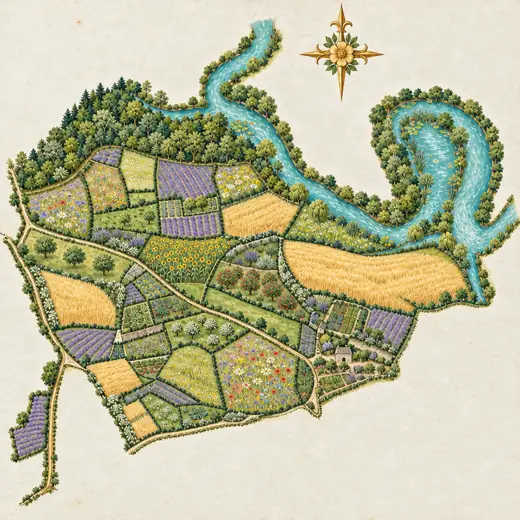
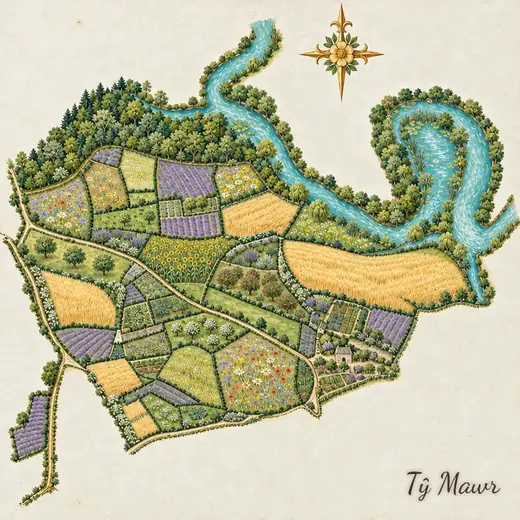
nft-art: Wayback Garden series NFA-0013 to NFA-0050, all signed Tŷ Mawr; gallery shows unpriced pieces
38 flowered-gouache pieces grown from Wayback Vault farm photographs and plans. NFA-0001 and NFA-0011 web images now carry the same signature. No prices or products added.

— Sion's Tab agent

diff --git a/public/garden.js b/public/garden.js
@@ -6,8 +6,9 @@
   function fill(s, o) { return String(s || '').replace(/\{(\w+)\}/g, function (_, k) { return o[k] != null ? o[k] : ''; }); }
   function words() { document.querySelectorAll('[data-t]').forEach(function (el) { el.textContent = T[el.getAttribute('data-t')] || ''; }); if (T.page_title) document.title = T.page_title; }
   function edition(a) { return a.edition === 1 ? T.one_of_one : fill(T.limited, { n: a.edition }); }
+  function sub(a) { return a.price ? esc(a.price) + ' · ' + esc(edition(a)) : esc(a.id); }
   function card(a, i) {
-    return '<a class="gg-c" style="animation-delay:' + (i * 70) + 'ms" href="#/' + esc(a.id) + '"><img loading="lazy" src="' + esc(a.thumb) + '" alt="' + esc(a.alt) + '"><span class="gg-ct"><b>' + esc(a.title) + '</b><small>' + esc(a.price) + ' · ' + esc(edition(a)) + '</small></span></a>';
+    return '<a class="gg-c" style="animation-delay:' + (Math.min(i, 12) * 70) + 'ms" href="#/' + esc(a.id) + '"><img loading="lazy" src="' + esc(a.thumb) + '" alt="' + esc(a.alt) + '"><span class="gg-ct"><b>' + esc(a.title) + '</b><small>' + sub(a) + '</small></span></a>';
   }
   function grid() { $('gg-grid').innerHTML = A.map(card).join(''); }
   function detail(id) {
@@ -17,12 +18,14 @@
     d.innerHTML = '<a class="gg-back" href="#/">← ' + esc(T.back) + '</a>' +
       '<figure><img src="' + esc(a.image) + '" alt="' + esc(a.alt) + '"></figure>' +
       '<h2>' + esc(a.title) + '</h2><p class="gg-cap">' + esc(a.caption) + '</p>' +
-      '<dl class="gg-meta"><dt>' + esc(T.catalogue_label) + '</dt><dd>' + esc(a.id) + '</dd><dt>' + esc(T.edition_label) + '</dt><dd>' + esc(edition(a)) + '</dd>' +
-      '<dt>' + esc(T.medium_label) + '</dt><dd>' + esc(T.medium) + '</dd><dt>' + esc(T.source_label) + '</dt><dd>' + esc(a.source_id) + '</dd></dl>' +
-      '<div class="gg-src"><img loading="lazy" src="' + esc(a.src) + '" alt=""><span>' + esc(T.grown_from) + ' ' + esc(a.source_title) + '</span></div>' +
-      '<div class="gg-buy"><span class="gg-price">' + esc(a.price) + '</span>' +
+      '<dl class="gg-meta"><dt>' + esc(T.catalogue_label) + '</dt><dd>' + esc(a.id) + '</dd>' +
+      (a.edition ? '<dt>' + esc(T.edition_label) + '</dt><dd>' + esc(edition(a)) + '</dd>' : '') +
+      '<dt>' + esc(T.medium_label) + '</dt><dd>' + esc(T.medium) + '</dd>' +
+      (a.source_id ? '<dt>' + esc(T.source_label) + '</dt><dd>' + esc(a.source_id) + '</dd>' : '') + '</dl>' +
+      (a.src ? '<div class="gg-src"><img loading="lazy" src="' + esc(a.src) + '" alt=""><span>' + esc(T.grown_from) + ' ' + esc(a.source_title) + '</span></div>' : '') +
+      (a.price ? '<div class="gg-buy"><span class="gg-price">' + esc(a.price) + '</span>' +
       (a.buy ? '<a class="gg-btn" rel="nofollow" href="/wayback/go/?u=' + encodeURIComponent(a.buy) + '">' + esc(T.buy) + '</a>' : '<a class="gg-btn" href="/shop/">' + esc(T.shop) + '</a>') +
-      '<p class="gg-inc">' + esc(T.includes) + '</p></div>' +
+      '<p class="gg-inc">' + esc(T.includes) + '</p></div>' : '') +
       '<nav class="gg-nav"><a href="#/' + esc(prev.id) + '">← ' + esc(prev.title) + '</a><a href="#/' + esc(next.id) + '">' + esc(next.title) + ' →</a></nav>';
     show(true); window.scrollTo(0, 0);
     document.title = a.title + ' · ' + (T.title || '');
